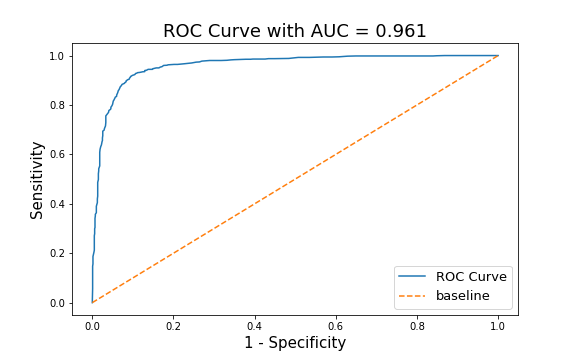
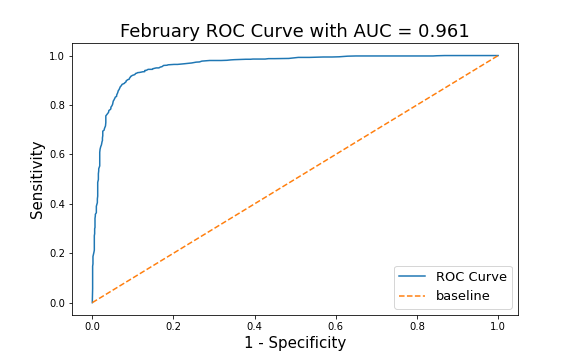
updates

Changed region(s): [[0.1875, 0.0611, 0.8125, 0.1222]]

diff --git a/README.md b/README.md
@@ -14,7 +14,7 @@ To gain some insight into why Wallstreetbets was the subreddit of choice for Gam
 Subreddit text was scraped using the [Pushshift API](https://pushshift.io/api-parameters/) on January 23rd, 2021. The text was preprocessed using scikit-learn's various vectorizers, and used to test a variety of classification algorithms.
 <img src = '/Images and Supporting Documents/model accuracy graph.png'/>
 
-Using a training and testing split, we evaluated each model by measuring the accuracy, precision and recall scores, as well as the receiver operating area under the curve. <img src='/Images and Supporting Documents/ROC curve.png' style='float:right'\>
+Using a training and testing split, we evaluated each model by measuring the accuracy, precision and recall scores, as well as the receiver operating area under the curve. <img src='/Images and Supporting Documents/ROC curve.png' style='float: right'/>
 
 
 #### Feature Importance
@@ -42,9 +42,11 @@ While it is unsurprising that words like tfsa and ei are important words, it is 
 
 The model was trained on data scraped on Saturday, January 23rd, 2021, when the Gamestop share price closed at $65.01 the day before. To test the model's generalization, I generated predictions from data scraped on January 27th (when share prices hit a high of $380.00), and again a month later on February 22nd (with share prices reaching a high of $48). 
 
-As expected, the model did not perform as well on data from later in January or February. <img src='/Images and Supporting Documents/ROC curve.png' style="float: right; width: 100px;"/>
+<img src='/Images and Supporting Documents/Jan and Feb predictions.png' style="float: right; width: 100px;"/>
 
-In both cases, the model significantly over-predicted the number of positive classes
+In both cases, the model over-predicted the number of positive classes, with January's predictions scoring higher than February's. The recall score, which measures the percentage of correct predictions of the positive class is high in both datasets. Similarly, the precision score, which measures correct positive predictions out of all predictions is higher than the recall score, indicating more positive classes were correctly identified than negative classes.
+
+The ROC score was also calculated for both datasets. <img src='/Images and Supporting Documents/ROC curve jan-feb.png'/>
 
 
 #### Final Thoughts
